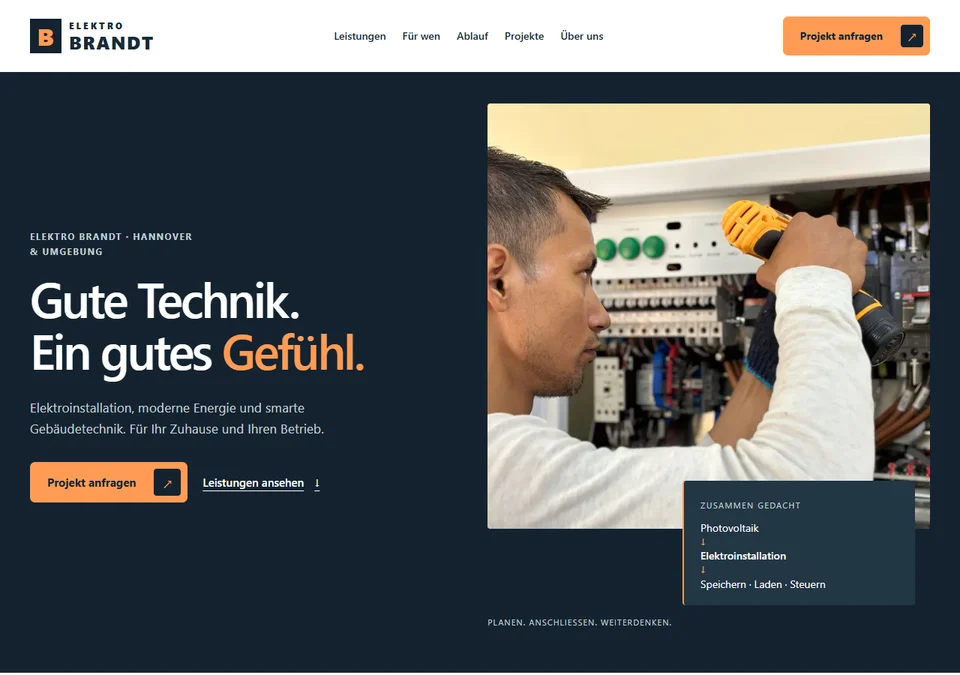
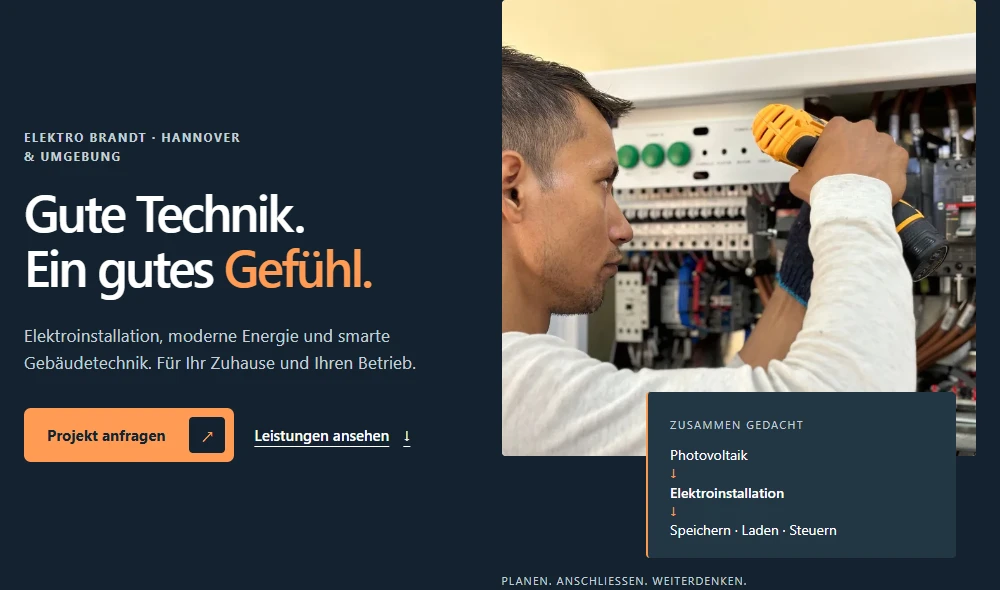
feat: add brandt hero header preview

diff --git a/src/styles/global.css b/src/styles/global.css
@@ -165,7 +165,6 @@
 @media(prefers-reduced-motion:reduce){.hero-copy .button:hover span{transform:none}}
 .hero-copy .text-link{display:inline-flex;align-items:center;min-height:44px;font-size:.92rem;border-bottom-color:var(--line);transition:color .2s,border-color .2s}
 .hero-copy .text-link:hover{color:var(--green);border-bottom-color:var(--green)}
-.hero-personal{max-width:420px;margin:22px 0 0;font-size:.8rem;line-height:1.6;color:var(--muted)}
 .site-header .brand{display:flex;flex-direction:column;gap:4px;font-size:.61rem;letter-spacing:.16em;line-height:1.1}
 .site-header .brand span{font-size:1.35rem;letter-spacing:-.035em;font-weight:750}
 @media(min-width:900px) and (max-width:1100px){
@@ -174,17 +173,18 @@
   .hero-break{display:none}
 }
 @media(max-width:899px){
-  .hero{padding:42px 0 52px}
-  .hero-grid{grid-template-columns:minmax(0,1fr);gap:38px}
+  .hero{padding:30px 0 48px}
+  .hero-grid{grid-template-columns:minmax(0,1fr);gap:24px}
   .hero-copy{max-width:620px;width:100%;margin-inline:auto}
   .hero-copy h1{font-size:clamp(2rem,6.6vw,3.6rem);overflow-wrap:normal}
   .hero-copy .eyebrow{font-size:.6rem;margin-bottom:20px}
   .hero-copy .eyebrow>span{width:18px;margin-right:6px}
-  .hero-copy .lead{font-size:1rem;margin-bottom:22px}
+  .hero-copy .lead{font-size:1rem;margin-bottom:16px}
+  .hero-copy .button{min-height:46px;padding:10px 18px}
 }
 @media(max-width:440px){
-  .hero-copy .button-row{align-items:flex-start;flex-direction:column;gap:8px}
-  .hero-copy .button{min-height:48px;font-size:.92rem}
+  .hero-copy .button-row{align-items:flex-start;flex-direction:column;gap:4px}
+  .hero-copy .button{min-height:46px;font-size:.92rem}
   .hero-copy .text-link{font-size:.88rem}
   .hero-copy .eyebrow{letter-spacing:.07em}
 }
